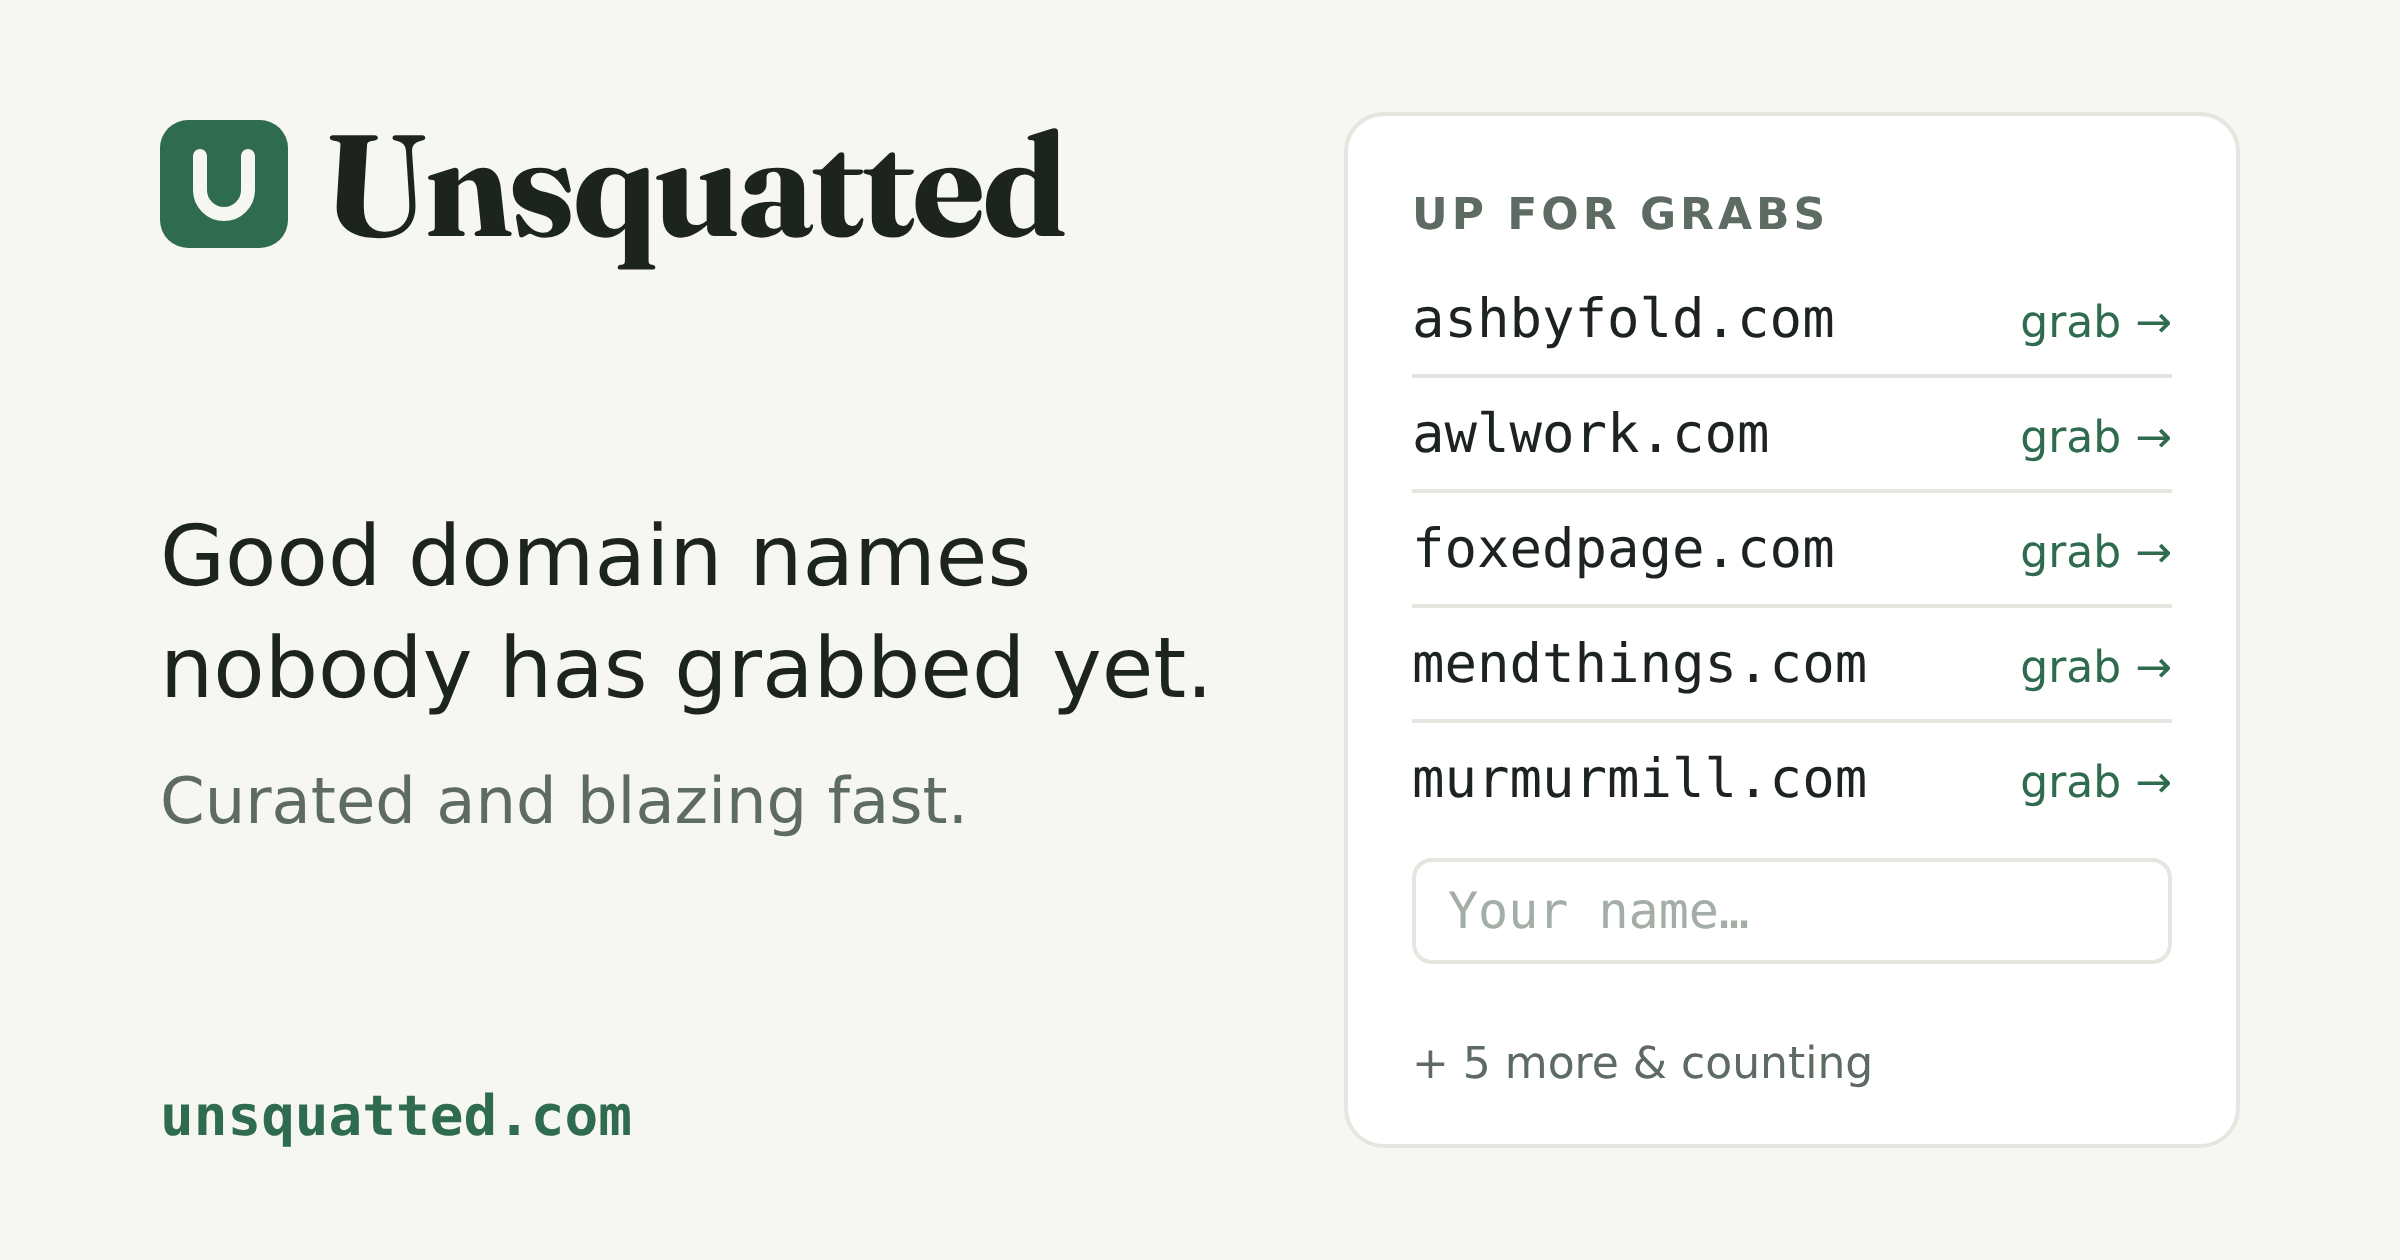
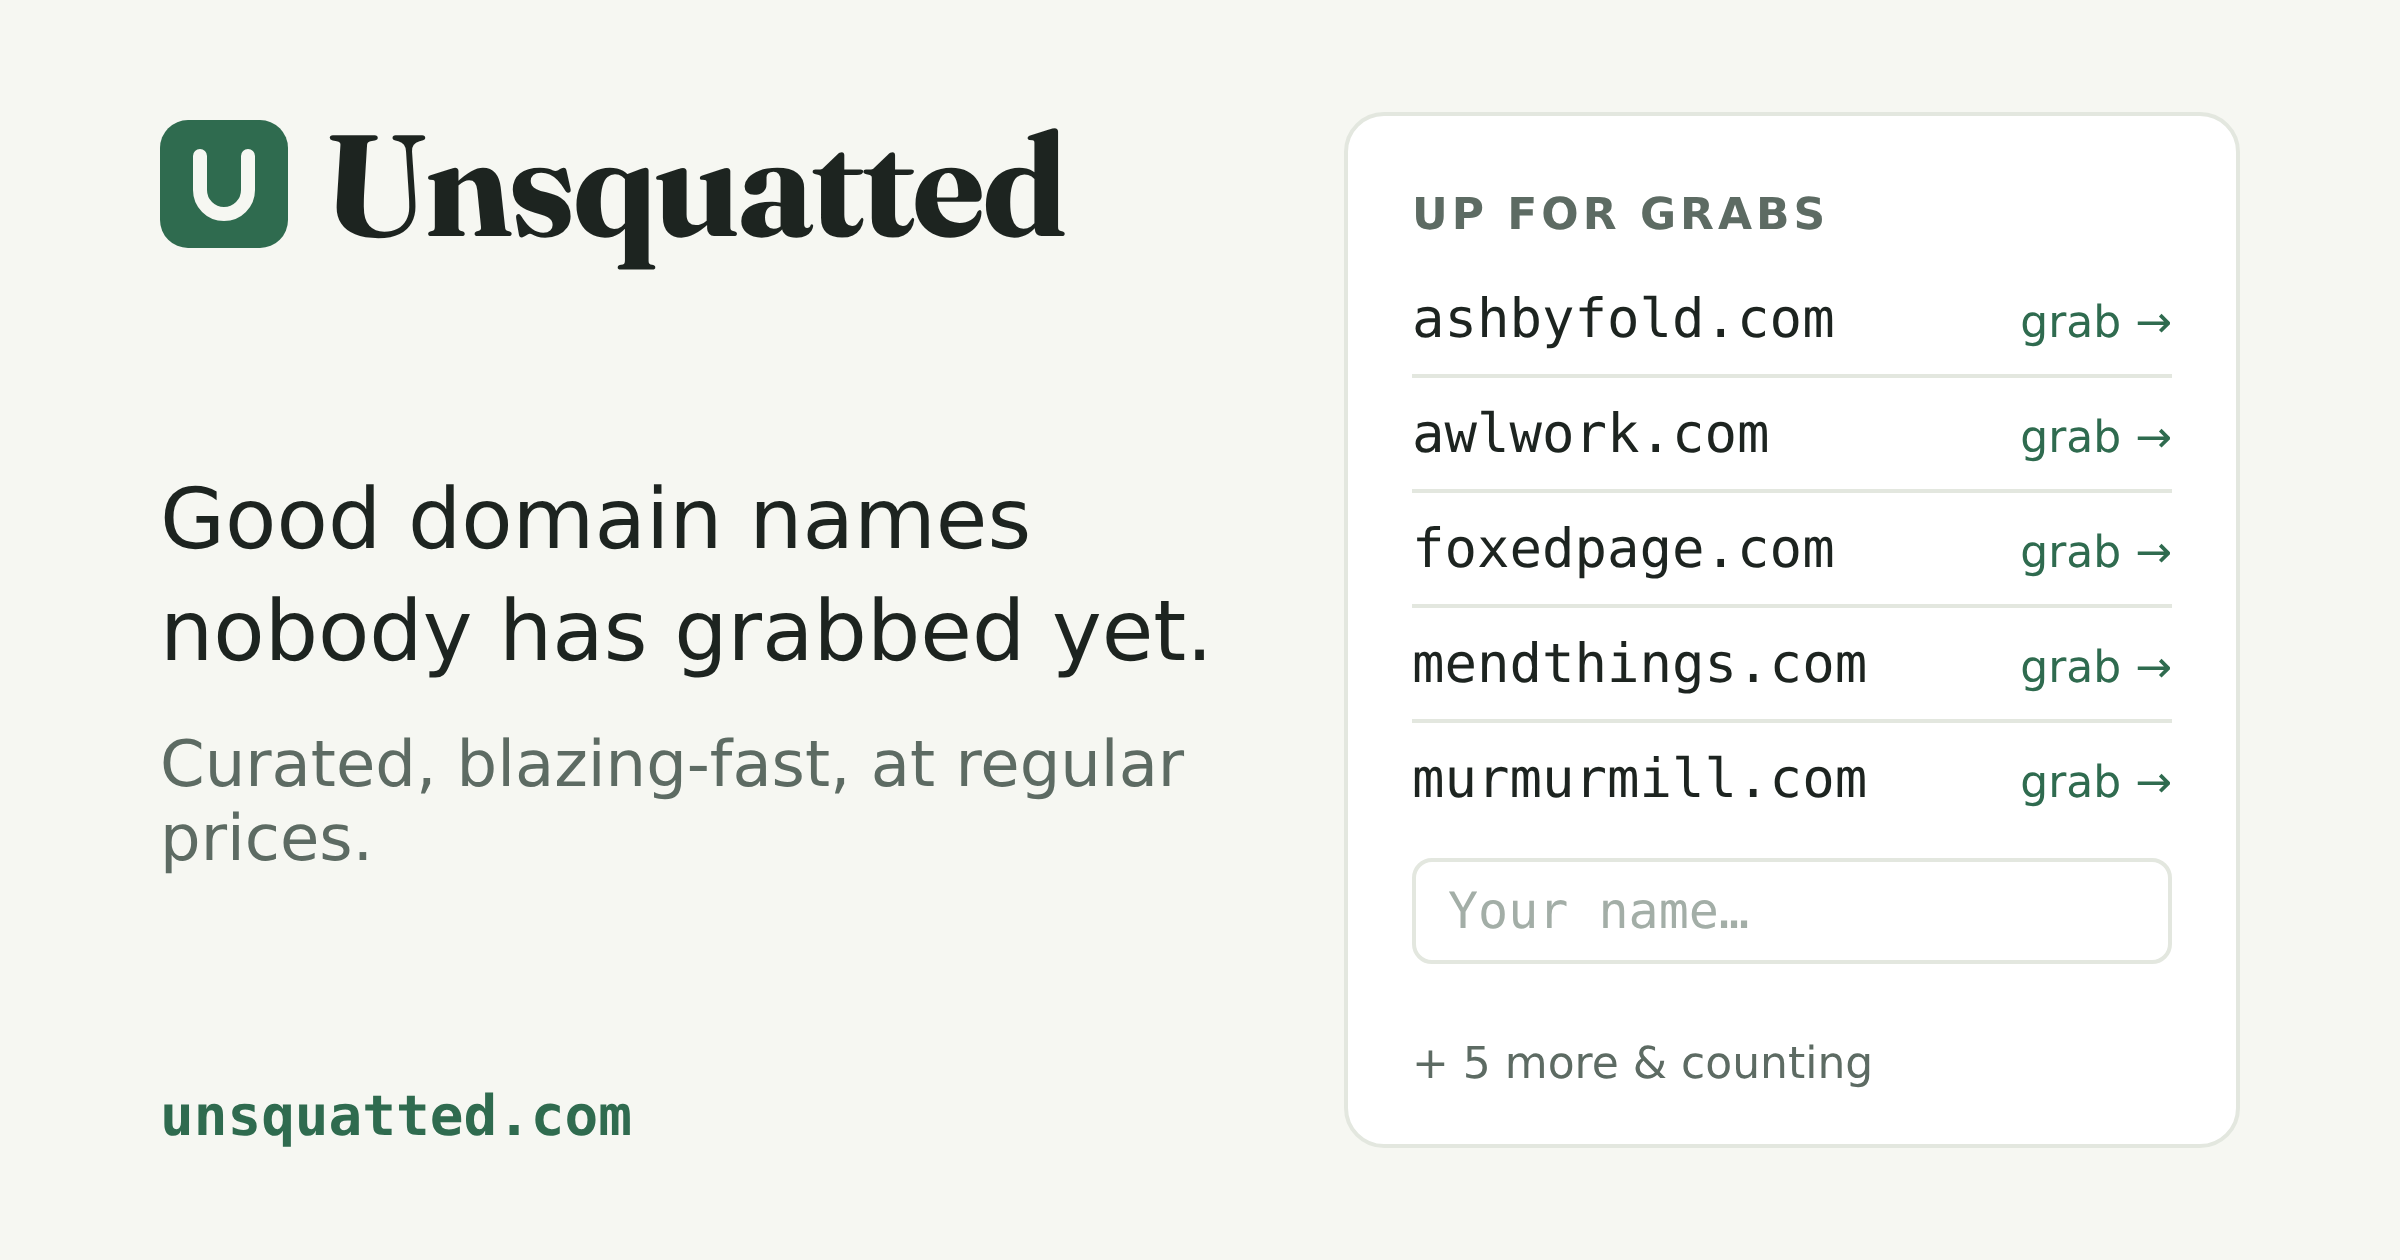
feat(unsquatted): the lede says the names cost what a registrar charges
"Curated, blazing-fast, at regular prices": the operator's wording, so the
card does not read as a reseller's like brandbucket. The page, the card and
the site's tagline all carry it; the tail after the noted words is its own
catalogue key, so the card composes the same sentence the page does.

Claude-Session: https://claude.ai/code/session_01DaohkCasSxM5K74WWig9ow

Changed region(s): [[0.0625, 0.3714, 0.5, 0.681]]

diff --git a/src/kernel/shared/config/site-config.ts b/src/kernel/shared/config/site-config.ts
@@ -248,7 +248,8 @@ const SITE_CONFIGS: Record<SiteId, SiteConfig> = {
     url: 'https://unsquatted.com',
     downloadPrefix: 'unsquatted',
     name: 'Unsquatted',
-    tagline: 'Good domain names nobody has grabbed yet. Curated and blazing fast.',
+    tagline:
+      'Good domain names nobody has grabbed yet. Curated, blazing-fast, at regular prices.',
     // The card is generated from the listed names by `pnpm content:og
     // unsquatted`, so no vector pairs it.
     avatar: UNSQUATTED_CARD,

diff --git a/src/unsquatted/pages/home/ui/unsquatted-home-page.tsx b/src/unsquatted/pages/home/ui/unsquatted-home-page.tsx
@@ -29,7 +29,8 @@ export async function UnsquattedHomePage() {
           <h1 className={classes['masthead']}>{SITE_CONFIG.name}</h1>
           <p className={classes['lede']}>
             {COPY.lede}{' '}
-            <NotedSpan words={COPY.blazing}>{COPY.blazingWhy}</NotedSpan>.
+            <NotedSpan words={COPY.blazing}>{COPY.blazingWhy}</NotedSpan>
+            {COPY.ledeEnd}.
           </p>
           <p className={classes['lede']}>
             {COPY.pledge} {COPY.coffeePrompt}{' '}

diff --git a/src/unsquatted/scripts/lib/unsquatted-card.ts b/src/unsquatted/scripts/lib/unsquatted-card.ts
@@ -52,7 +52,8 @@ const MARK = `<svg viewBox="0 0 64 64" width="64" height="64" aria-hidden="true"
 
 /** The lede, its first sentence the headline and the rest under it. */
 function lede(): readonly [string, string] {
-  const [head = '', ...rest] = `${COPY.lede} ${COPY.blazing}.`.split('. ');
+  const [head = '', ...rest] =
+    `${COPY.lede} ${COPY.blazing}${COPY.ledeEnd}.`.split('. ');
 
   return [`${head}.`, rest.join('. ')];
 }
